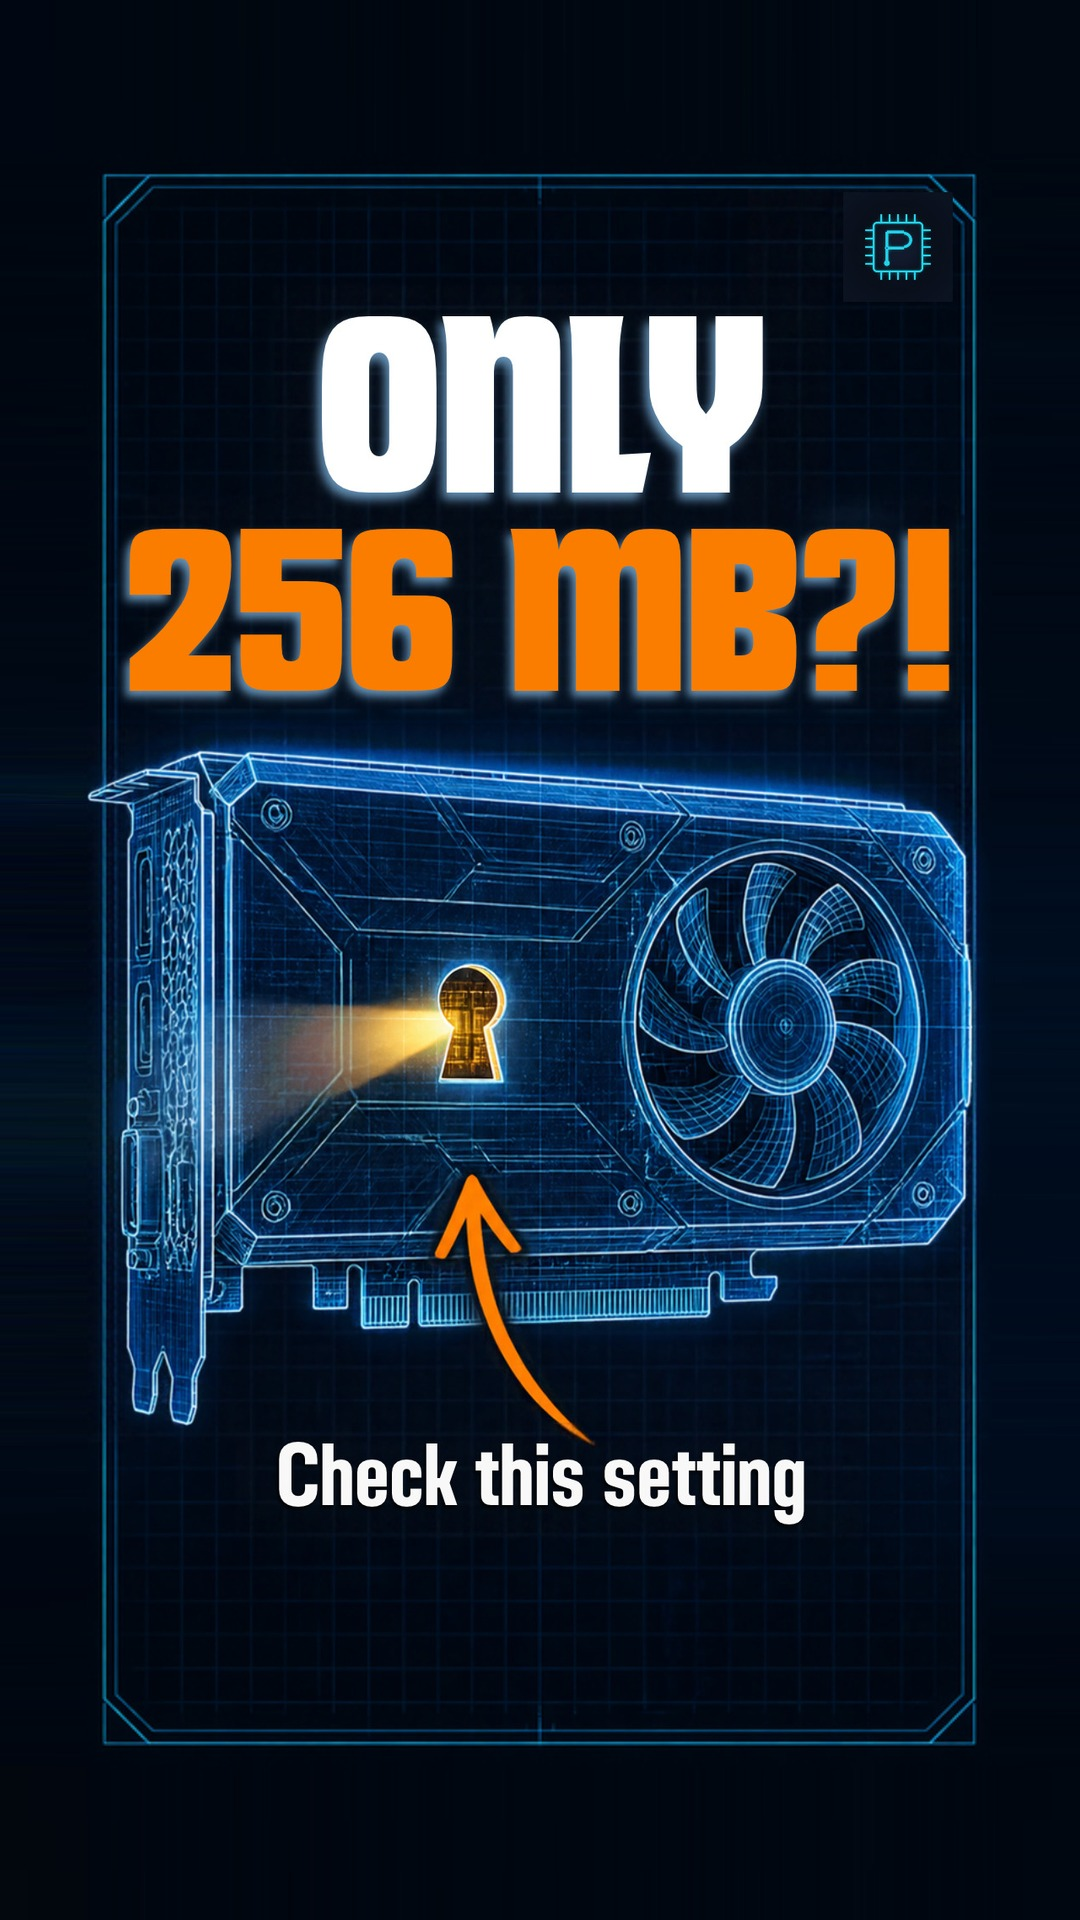
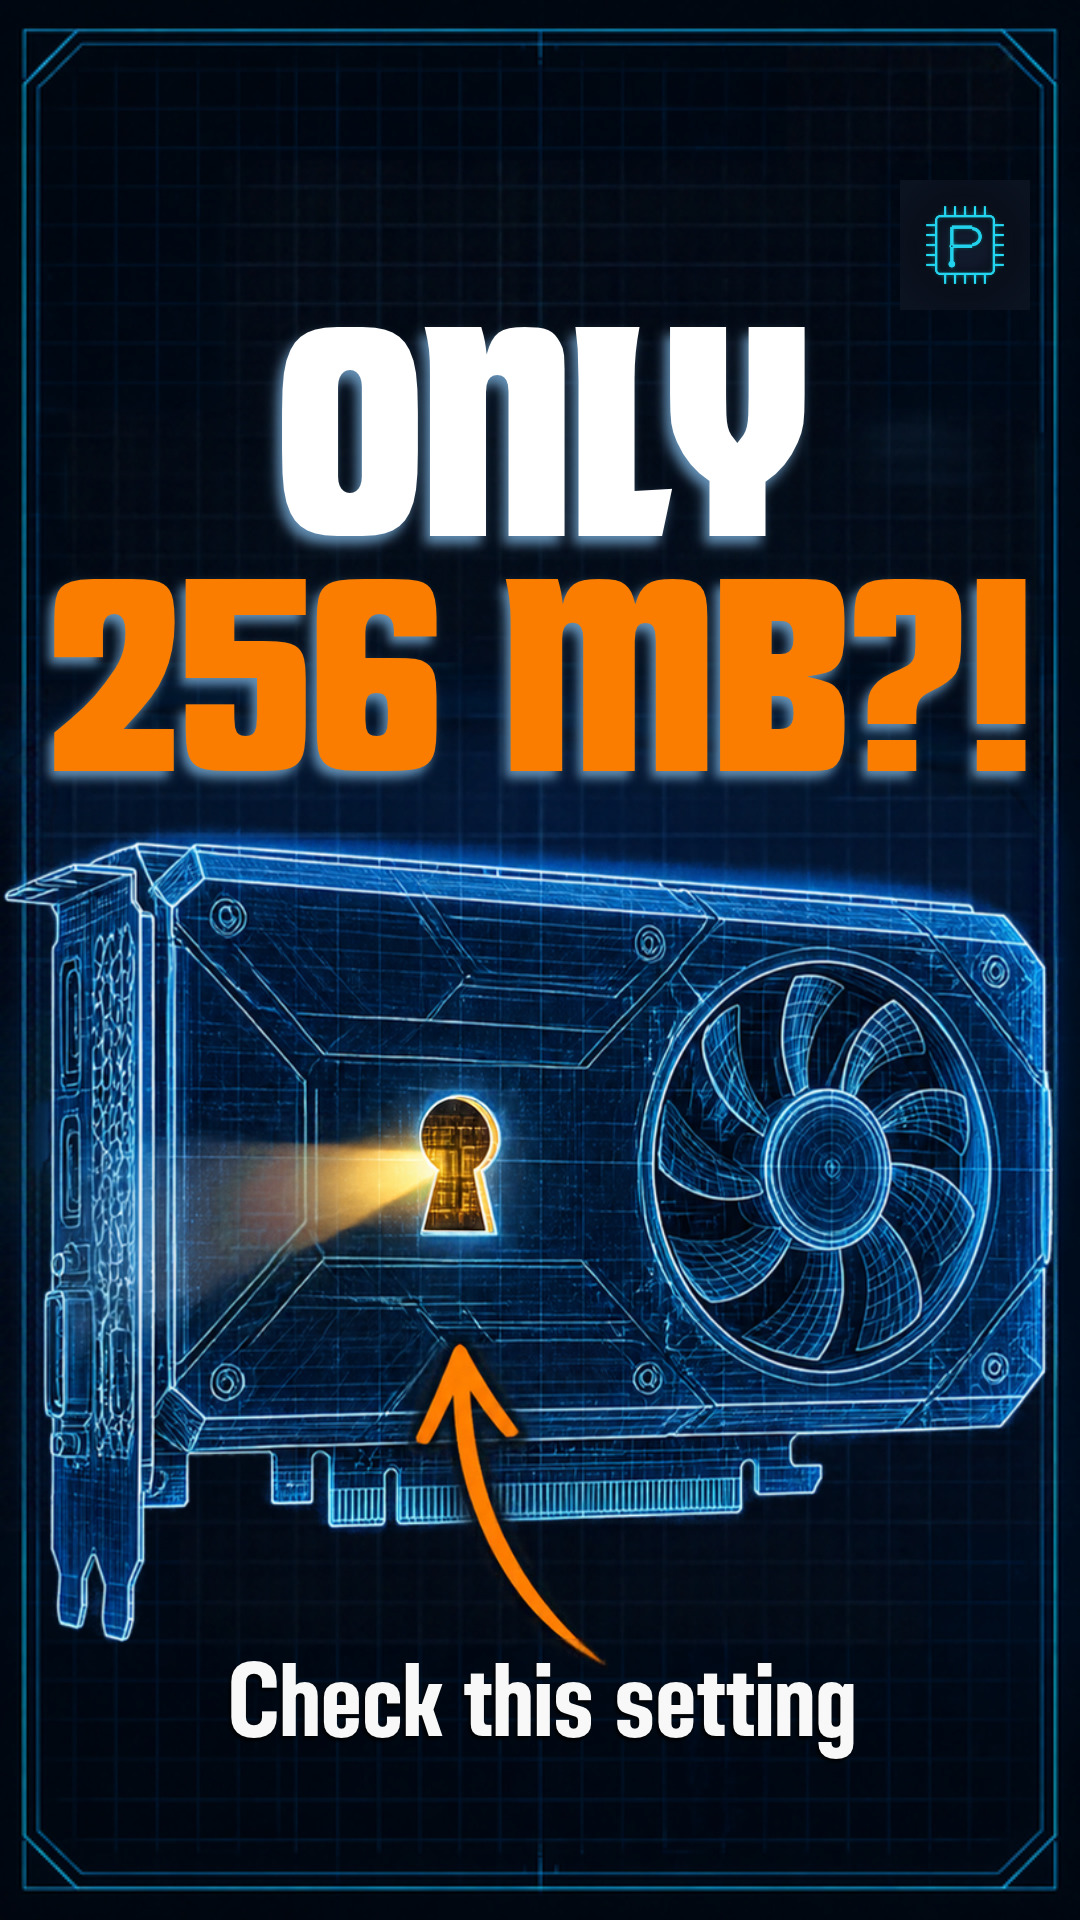
Shorts covers designed for YouTube's 2:3 crop (full-bleed, text inside y 190-1760); 23s1 cover re-laid out in Canva and set
Claude-Session: https://claude.ai/code/session_0172qTtyiomsRLR27RQusAov

diff --git a/brand_thumb.py b/brand_thumb.py
@@ -1,7 +1,7 @@
 """Stamp the Plainly Silicon logo on a thumbnail (same size and spot on every thumbnail).
 
-Usage: python3 brand_thumb.py IN.jpg OUT.jpg [--no-logo]   (16:9 long-video or 9:16 Shorts thumbnail;
-9:16 ones are fitted into the 2:3 area YouTube actually shows)
+Usage: python3 brand_thumb.py IN.jpg OUT.jpg [--no-logo] [--fit]   (16:9 long-video or 9:16 Shorts thumbnail;
+Shorts covers should be DESIGNED for the 2:3 area YouTube shows; --fit shrinks one that wasn't)
 Canva makes the design; this adds the brand mark so it never depends on the generated layout:
 the logo tile in the top-right corner (bottom-right is covered by YouTube's duration badge), 9% of the thumbnail height from the edges.
 """
@@ -42,8 +42,8 @@ def stamp(src, dst, logo_too=True):
     target = (1280, 720) if im.width > im.height else (1080, 1920)
     if im.size != target:
         im = im.resize(target, Image.LANCZOS)
-    if target == (1080, 1920):
-        im = shorts_safe(im)
+    if target == (1080, 1920) and "--fit" in sys.argv:
+        im = shorts_safe(im)   # last resort for a design not laid out for the 2:3 area
     if not logo_too:
         im.save(dst, quality=92)
         return

diff --git a/AGENT.md b/AGENT.md
@@ -58,7 +58,7 @@ Why: on Nov 24, 2026 the channel had 48 videos, about 22,800 views and 33 subscr
 
 - **Titles under 55 characters.** Lead with the viewer's problem or a verdict, not the part name: "Slow PC? More RAM Probably Won't Fix It", not "What Is a Page File". Shorts: under 55 characters plus " #shorts". Planned titles in `calendar.json` are drafts: re-check them against the finished script.
 - **Thumbnails are made in Canva (owner, Nov 26, 2026), for every long video AND every Short.** Use the Canva connector: `create-design` with format "YouTube Thumbnail" (long videos) or a 9:16 format (Shorts) and a brief that gives: at most 3 words that don't repeat the title, one big part render, high contrast, the video's theme colors, the brand title font (Inter Black style), no real brand logos, readable on a phone. Poll `get-create-design-async-job`, then `export-design` as JPG 1280x720 (Shorts: 1080x1920) and download it (export-download.canva.com is allowed in this environment). Look at it before using it. Save the export as `videos/<slug>/thumbnail_canva.jpg`, then **always** run `python3 brand_thumb.py videos/<slug>/thumbnail_canva.jpg videos/<slug>/thumbnail.jpg`: it stamps the Plainly Silicon logo in the top-right corner (bottom-right is hidden by YouTube's duration badge), the same on every thumbnail. **Canva's AI credits are limited on the free plan and ran out on Nov 26, 2026.** If Canva says `quota_exceeded` (or isn't connected in your run), never buy credits: draw the thumbnail in code instead (`videos/<slug>/thumbnail.py` writing `thumbnail_raw.jpg`, same rules, brand title font; see `videos/10s2-80-plus-only-efficiency/thumbnail.py`), stamp it with `brand_thumb.py`, and say in the report that Canva was unavailable. `youtube_upload.py` sets `thumbnail.jpg` on long videos and Shorts alike.
-- **Shorts thumbnails are vertical: 1080x1920 (9:16), never 16:9** (owner, Nov 26, 2026). In Canva use a 9:16 format (e.g. "YouTube Shorts" / "Your Story") and export JPG 1080x1920; `brand_thumb.py` keeps vertical images 1080x1920. Long videos stay 1280x720. Before making one, look in the owner's Canva (`search-designs`, newest first) for a design titled like "Plainly Silicon Shorts cover" for that Short: the owner sometimes makes them, and theirs win. Their covers already carry the logo: run `brand_thumb.py IN OUT --no-logo` on them. **Always run Shorts thumbnails through `brand_thumb.py`:** YouTube shows Shorts thumbnails cropped to about 2:3 (Studio, Shorts shelves), cutting ~8% off the top and bottom of a 9:16 image, so the script fits the whole design into that centre 2:3 area and fills the sides and top/bottom by stretching the design's outer pixels (background continues to the edge; no blur, no mirrored copies). Check it by cropping the result to its middle 1080x1620.
+- **Shorts thumbnails are vertical: 1080x1920 (9:16), never 16:9** (owner, Nov 26, 2026). In Canva use a 9:16 format (e.g. "YouTube Shorts" / "Your Story") and export JPG 1080x1920; `brand_thumb.py` keeps vertical images 1080x1920. Long videos stay 1280x720. Before making one, look in the owner's Canva (`search-designs`, newest first) for a design titled like "Plainly Silicon Shorts cover" for that Short: the owner sometimes makes them, and theirs win. Their covers already carry the logo: run `brand_thumb.py IN OUT --no-logo` on them. **Design Shorts covers for the area YouTube shows (owner, Nov 26, 2026):** YouTube crops Shorts thumbnails to about 2:3, i.e. roughly y=150 to y=1770 of the 1080x1920 frame (Studio also puts a "Scheduled" badge and a menu over the top corners). So the background fills the whole 9:16 frame edge to edge, and every word, the main part render and the logo sit between y≈190 and y≈1760, logo at top≈190, right. Never shrink, pad, blur or mirror a finished design to make it fit; move and resize its elements instead (in Canva: `read-design` with `open_transaction`, `edit-design` with `position_element` / `format_text` font size — resizing a text box's width rewraps the words, so change the font size instead — then show the owner a preview and save only what they approve). Check the result by cropping it to its middle 1080x1620. `brand_thumb.py --fit` exists only as a last resort.
 - **The owner confirms long-video thumbnails the evening before.** A Friday 7:50 PM check-in in the owner's chat session shows Saturday's thumbnail and asks to confirm; nothing changes on YouTube until they answer. Upload long videos with your best Canva thumbnail; the check-in replaces it if the owner asks.
 - **Thumbnail content (long videos and Shorts):** at most 3 words, one big part render, high contrast, and the words must not repeat the title.
 
